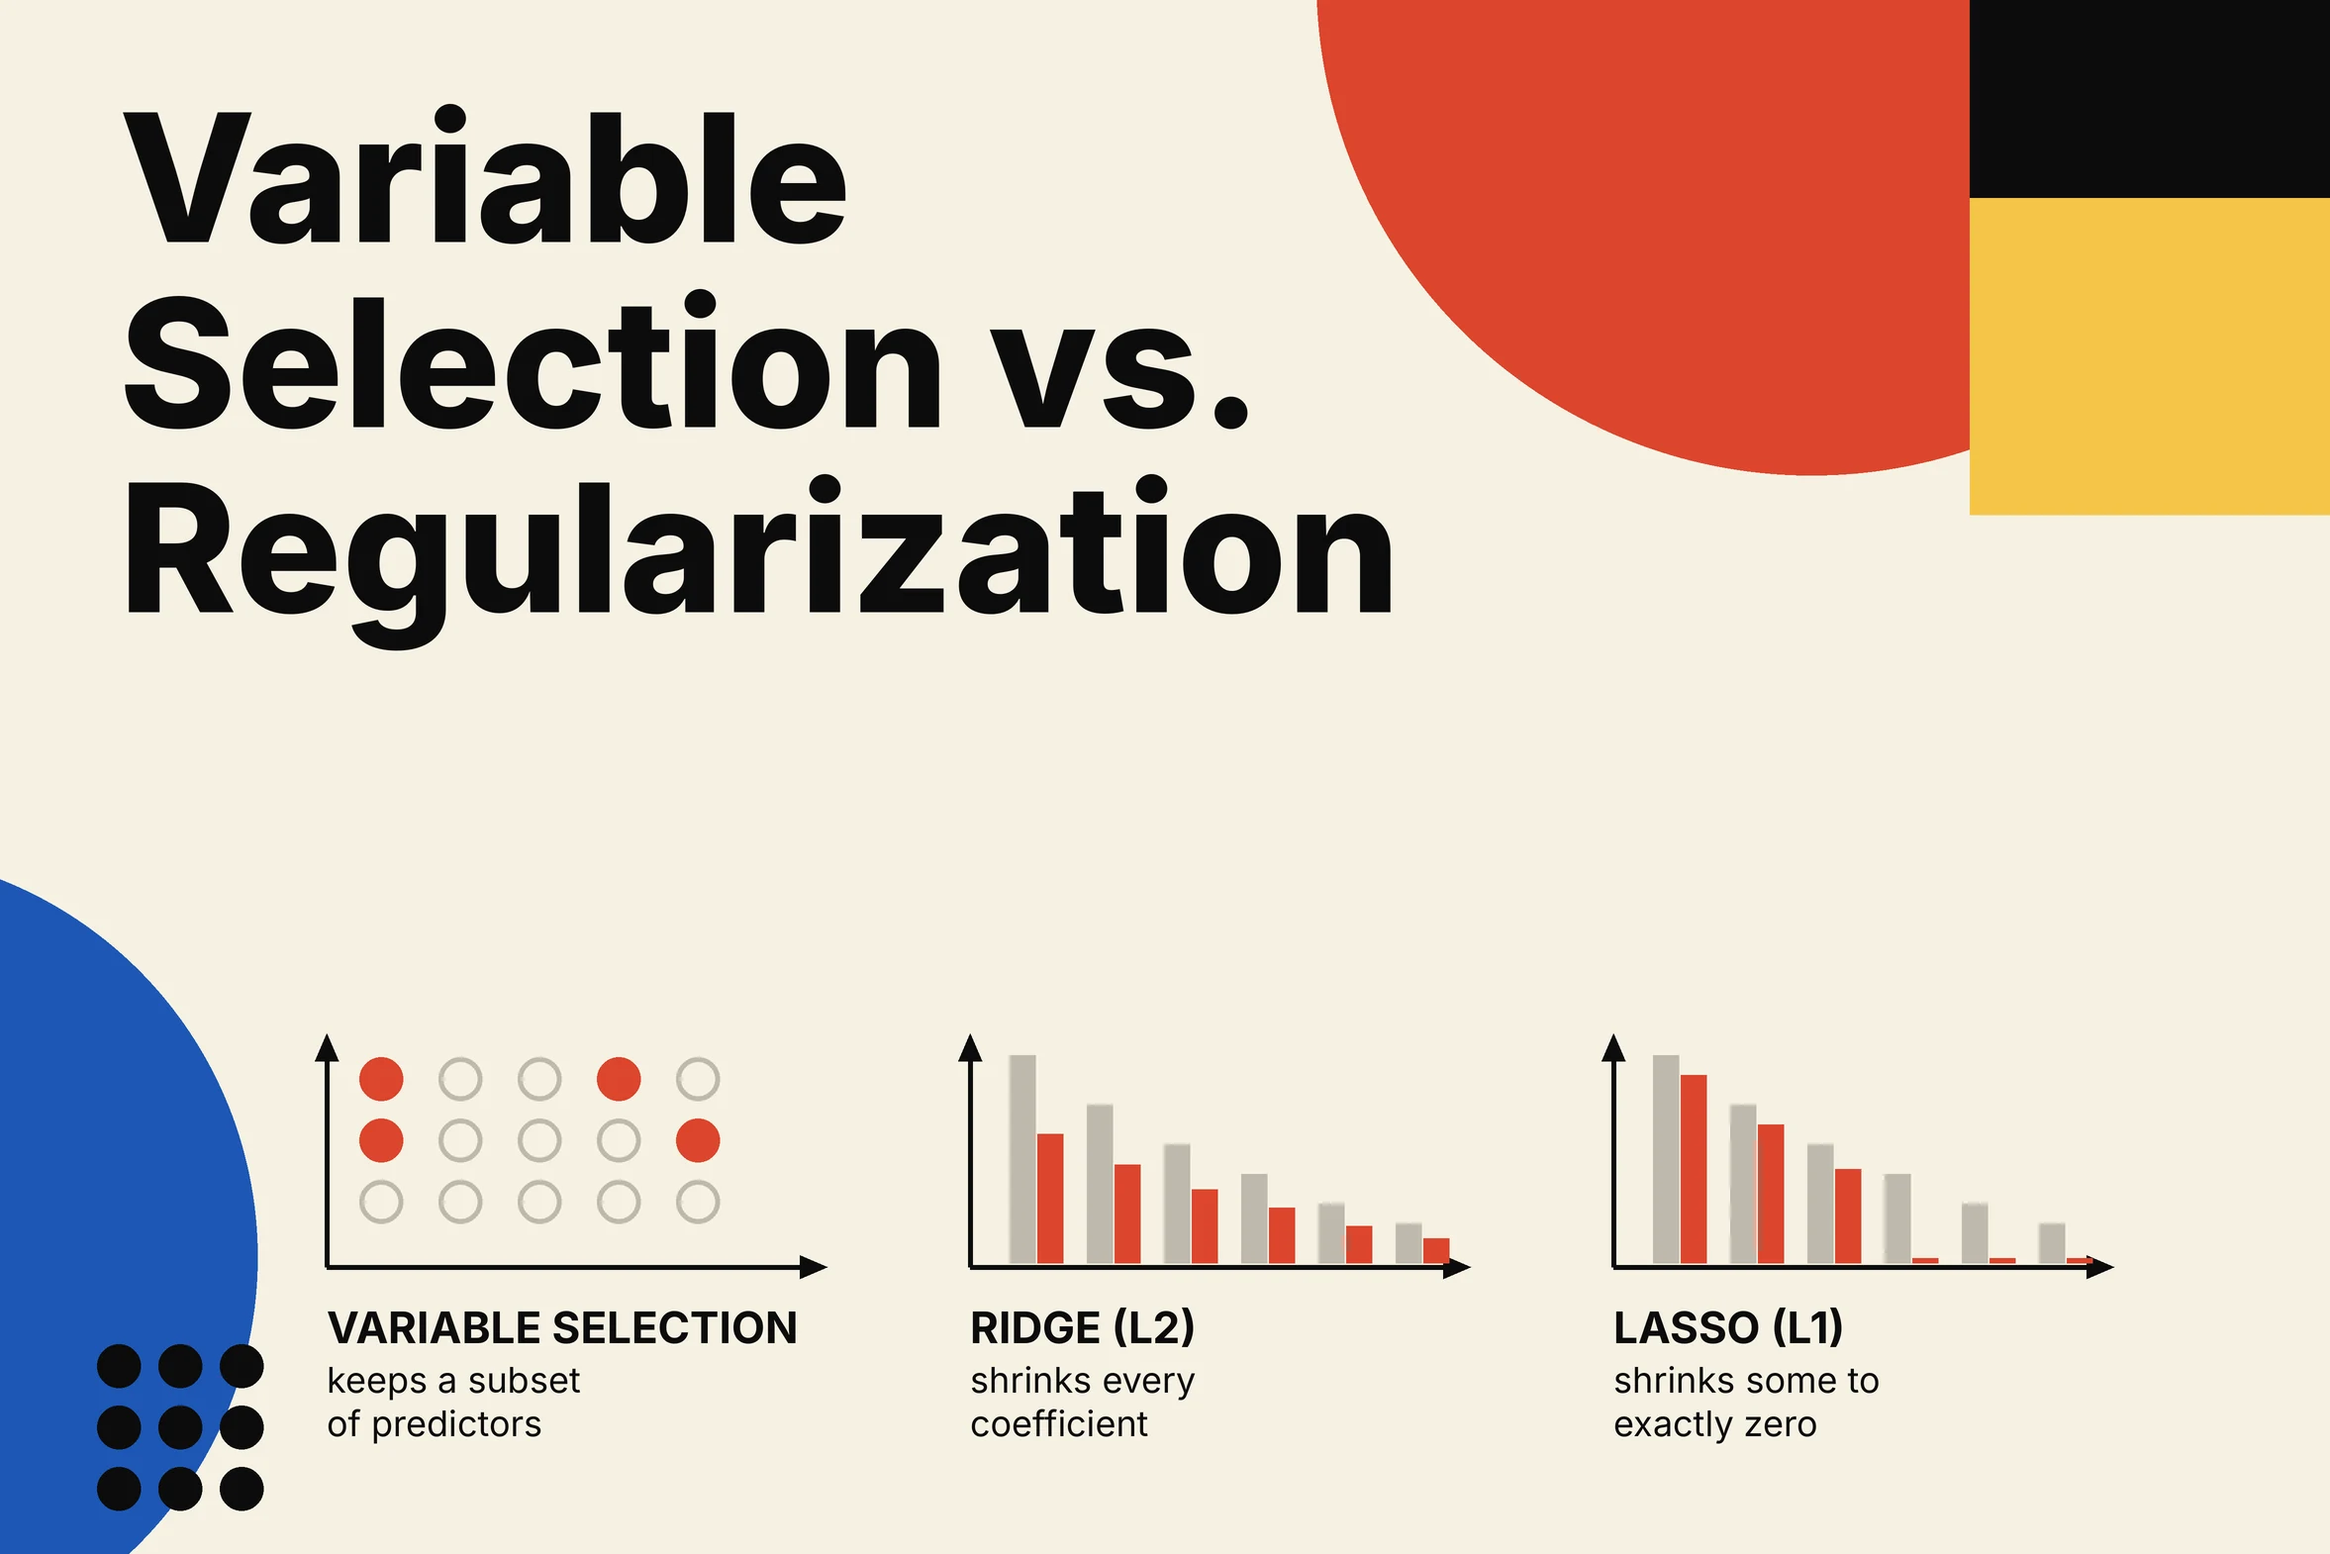
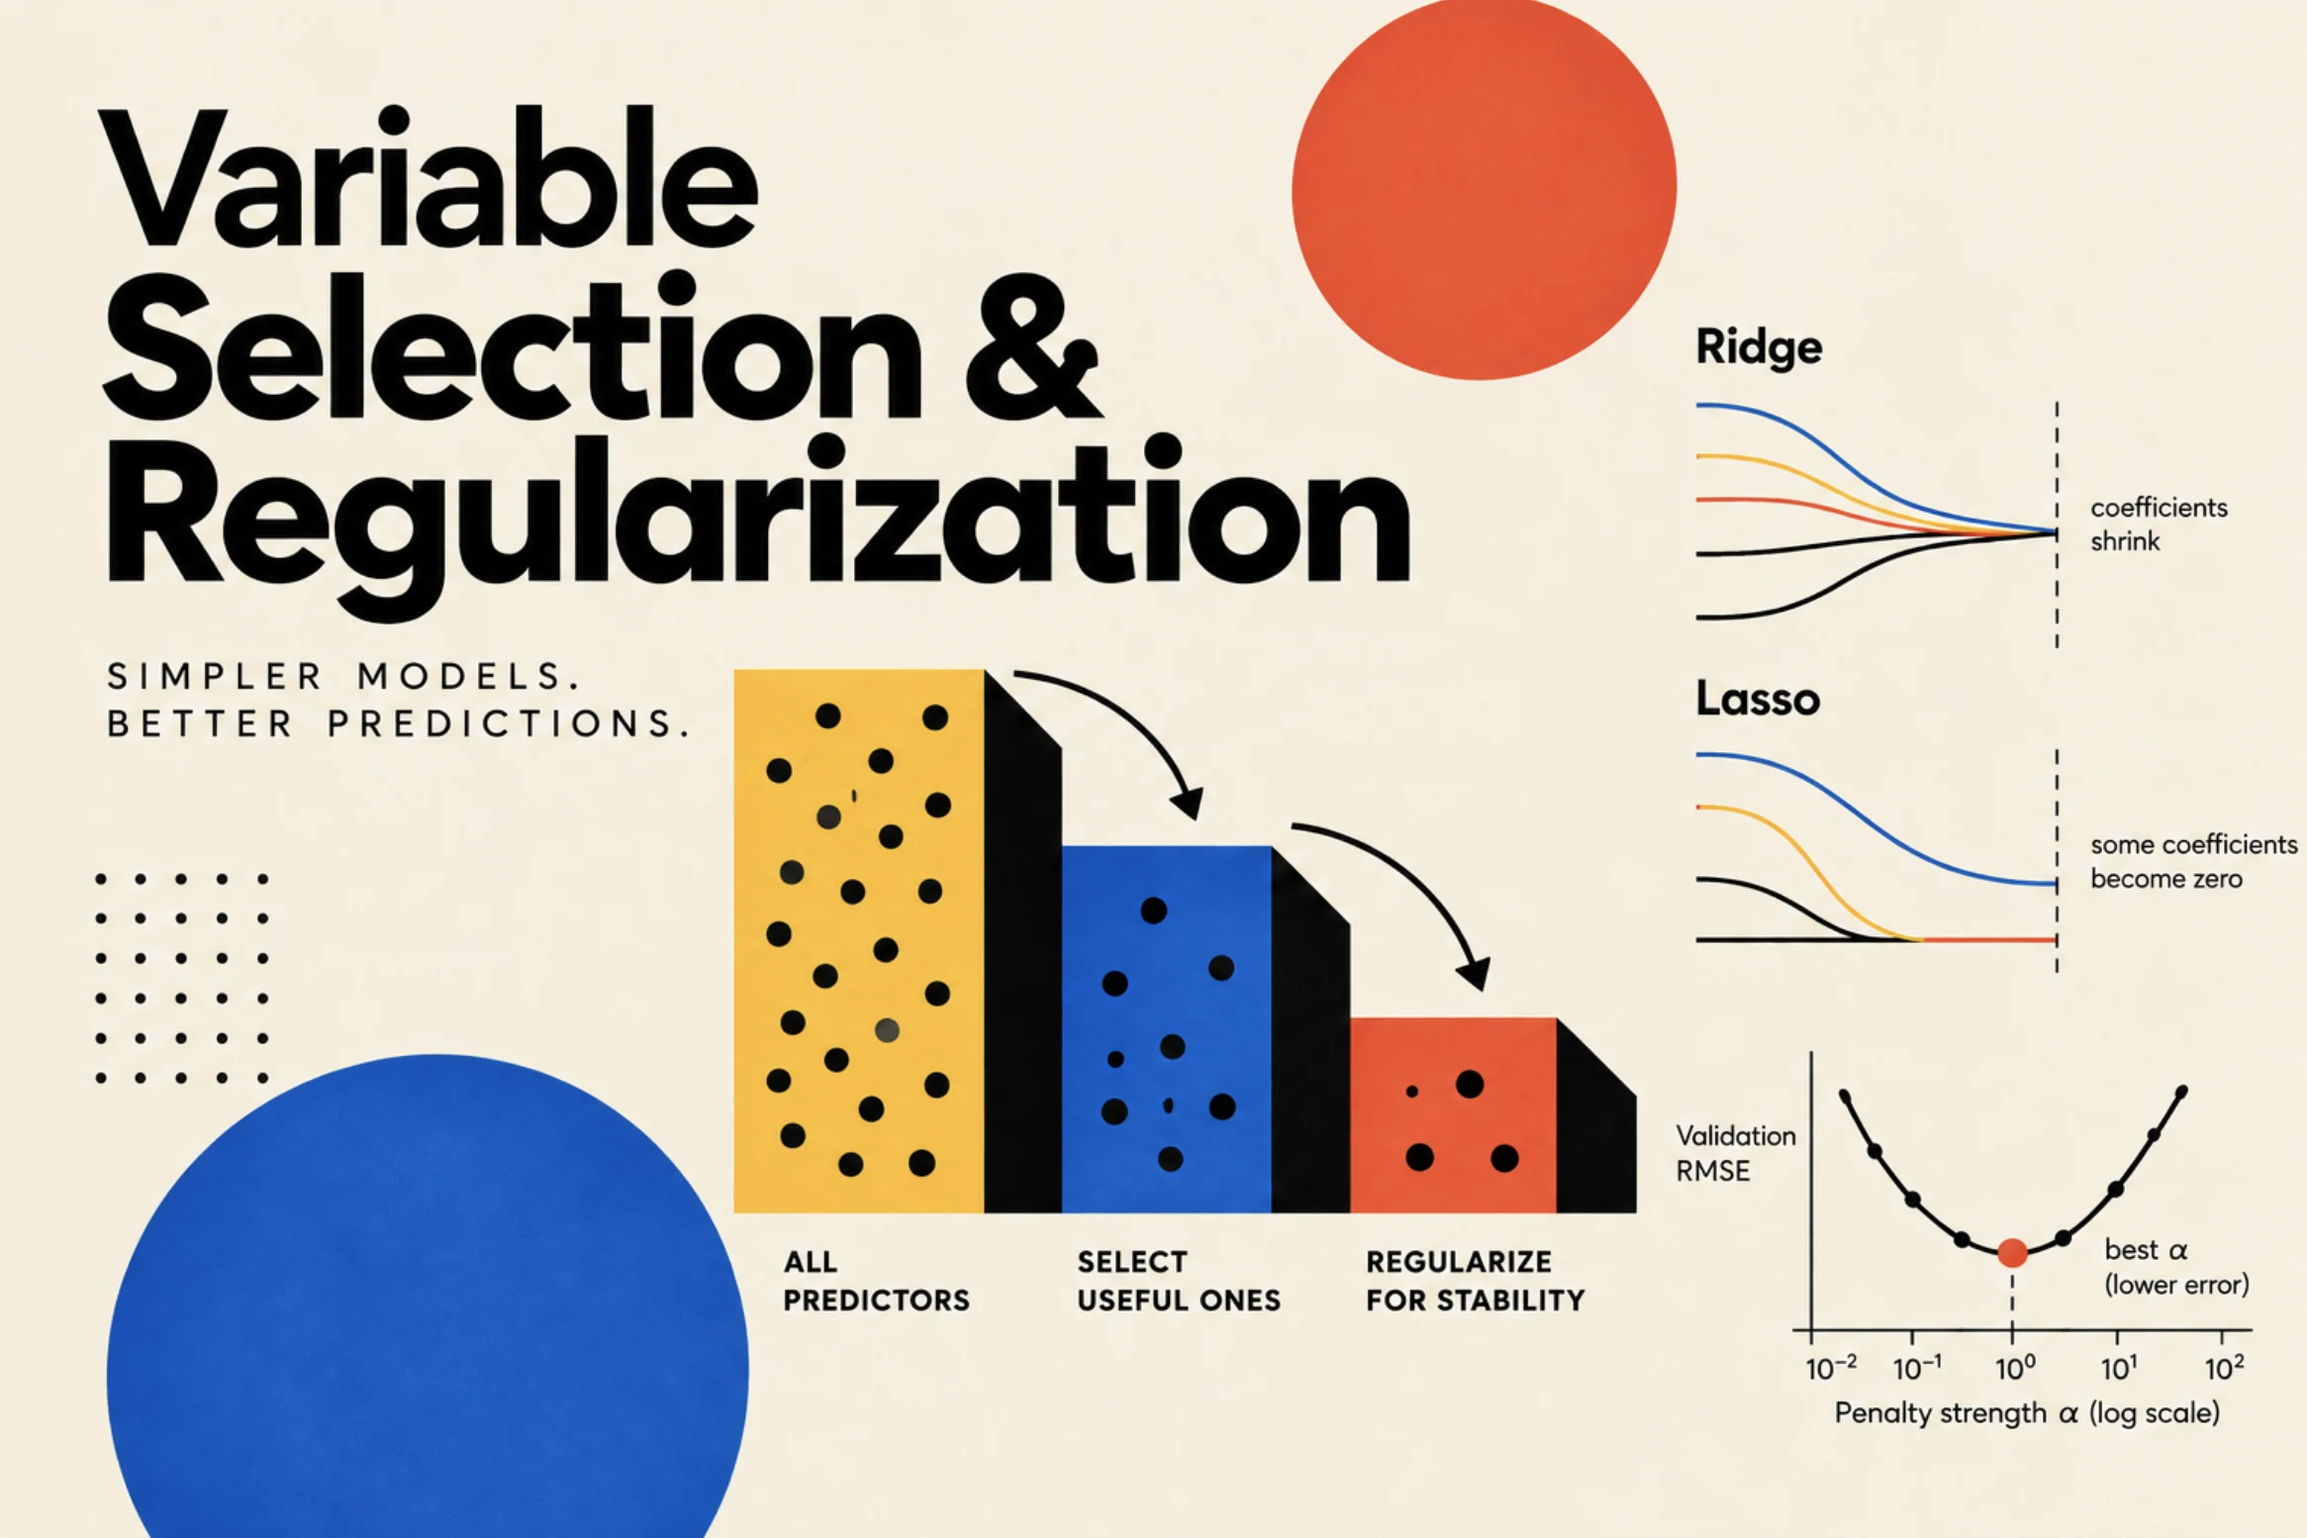
Use Eileen's cover image for Variable Selection vs. Regularization
Claude-Session: https://claude.ai/code/session_019S87n8mxx5Mk7539QFVL8t

diff --git a/statistics.html b/statistics.html
@@ -300,7 +300,7 @@
       </a>
 
       <a class="project-card" href="variable-selection-regularization.html">
-        <span class="project-card-img"><img src="images/variable-selection-regularization-cover.webp" alt="Variable Selection vs. Regularization: bold title above three small charts, a grid of dots with a few kept, bars shrunk toward zero for Ridge and bars shrunk exactly to zero for Lasso, surrounded by red, yellow, blue and black geometric shapes" width="2354" height="1570" loading="lazy"></span>
+        <span class="project-card-img"><img src="images/variable-selection-regularization-cover.webp?v=2" alt="Variable Selection &amp; Regularization: bold title above three stepped blocks that go from all predictors to useful ones to regularized, with Ridge and Lasso coefficient lines shrinking and a validation error curve marking the best penalty, between a red and a blue circle" width="2331" height="1554" loading="lazy"></span>
         <span class="project-card-body">
           <span class="project-type">Regression analysis</span>
           <span class="project-title">Variable Selection vs. Regularization: Managing Model Complexity</span>
